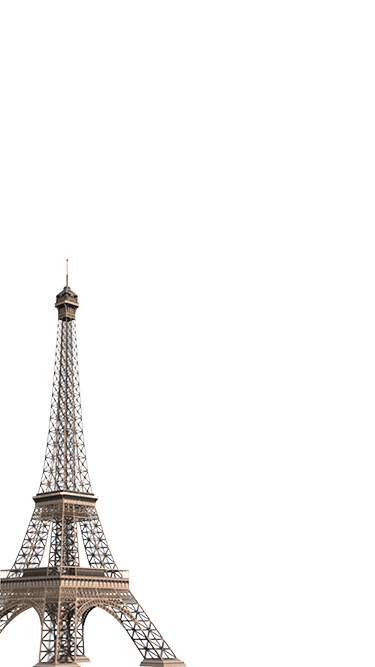
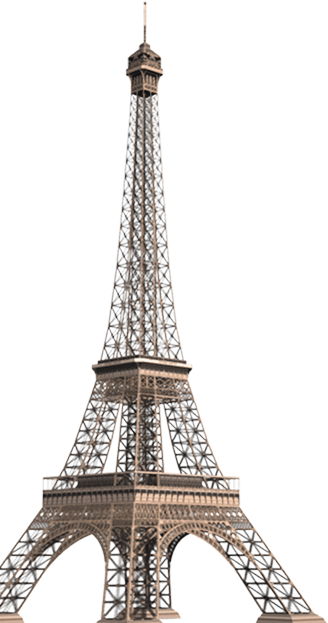
new monument image

Changed region(s): [[0.0, 0.0, 1.0, 1.0]]

diff --git a/js/index.js b/js/index.js
@@ -9,7 +9,7 @@
 'use strict';
 
 var errorElement = document.querySelector('#errorMsg');
-var video = document.querySelector('video');
+var video = document.getElementById('video');
 var canvas = window.canvas = document.querySelector('canvas');
 var clicker = document.getElementById("cameraClicker");
 var header = document.getElementById("header");
@@ -32,6 +32,7 @@ function handleSuccess(stream) {
   console.log('Got stream with constraints:', constraints);
   console.log('Using video device: ' + videoTracks[0].label);
   console.log('Stream active');
+
   stream.oninactive = function() {
     console.log('Stream inactive');
   };
@@ -41,6 +42,7 @@ function handleSuccess(stream) {
   header.style.display = 'block';
   hashtag.style.display = 'block';
   clicker.style.display = 'block';
+  console.log("video width = " + video.videoWidth)
 }
 
 
@@ -49,10 +51,9 @@ function takePic() {
   canvas.height = video.videoHeight;
 
   canvas.getContext('2d').
-    drawImage(video, 0, 0, canvas.width, canvas.height);
+    drawImage(video, 0, 0, video.videoWidth, video.videoHeight);
   clicker.style.display = 'none';
   video.style.display = 'none';
-  console.log('hashtag.style.display '+ hashtag.style.display);
 
 
 };

diff --git a/index.html b/index.html
@@ -25,13 +25,13 @@
 
   <div id="container">
     <img src="images/top3.jpg" id="header">
-    <img src="images/eiffel.png" id="monument">
+    <img src="images/monuments.png" id="monument">
     <!-- <button onclick="takePic()" class="image2">Click me</button> -->
     <img src="images/clicker.png" id="cameraClicker">
     <img src="images/mytop3.jpg" id="hashtag">
 
-    <video class="video" autoplay playsinline ></video>
-    <canvas></canvas>
+    <video id="video" autoplay playsinline ></video>
+    <canvas id="shapShot"></canvas>
     <div id="errorMsg">
 
   </div>

diff --git a/css/style.css b/css/style.css
@@ -26,8 +26,9 @@ div#container {
     position: fixed;
 }
 #monument{
-    left:0;
-    bottom: 0%;
+    left:0px;
+    width: 100%;
+    bottom: 12%;
     z-index: 2;
     display: none;
     position: fixed;
@@ -43,7 +44,7 @@ div#container {
 }
 
 
-.video {
+#video {
   min-width: 100%;
   min-height: 100%;
   position: fixed;
@@ -55,7 +56,7 @@ div#container {
   display: block;
 }
 
-.shapShot {
+#shapShot {
   min-width: 100%;
   min-height: 100%;
   position: fixed;
